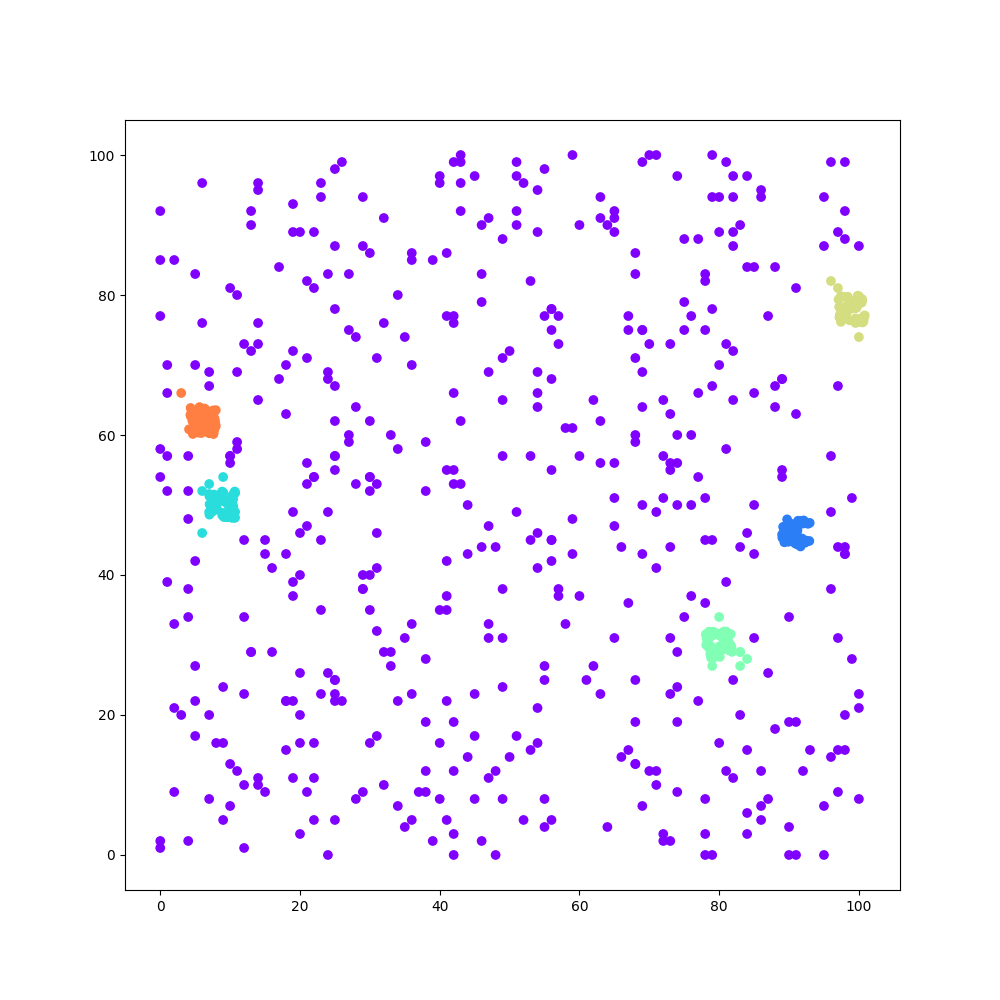
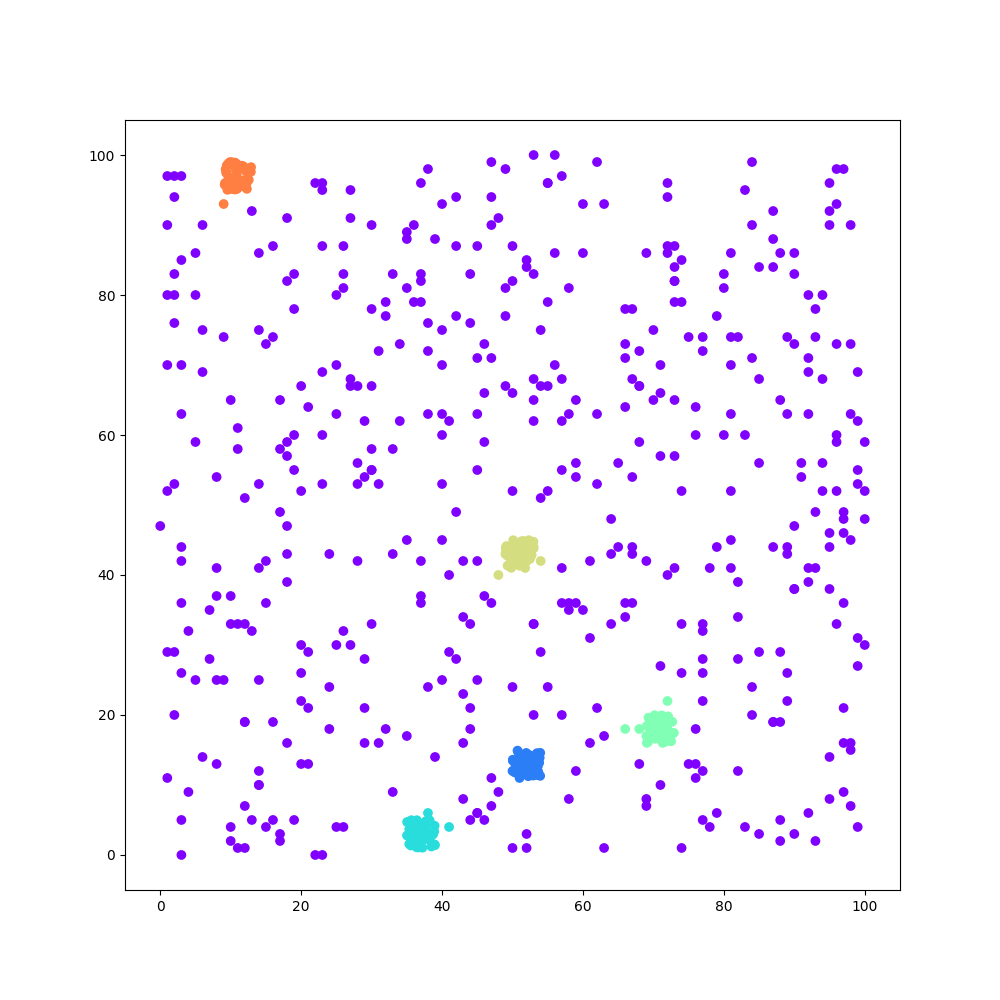
Final

diff --git a/main.py b/main.py
@@ -1,26 +1,47 @@
-from sklearn.cluster import DBSCAN
-import numpy as np
-import matplotlib.pyplot as plt
-import matplotlib.cm as cm
+"""
+	Author: Ash D
+	Date: Sept/2019
+	Description: This is a simple example demonstrating the
+				 unsupervised clustering algorithm DBSCAN.
+				 For more infomration see www.elmspace.com
+"""
+
 import random
-from collections import Counter
+import numpy as np
+import matplotlib.cm as cm
+import matplotlib.pyplot as plt
+from sklearn.cluster import DBSCAN
 
-def cluster_finder(points):
+
+def cluster_finder(points, eps, min_samples):
+	"""
+	This function will use sklearn DBSCAN and Matplotlib to
+	find clusters in points and plot them.
+	Input:
+		:points: List of x,y coordinates <list of lists>
+		:eps: Minimum distance used by DBSCAN for clusteting <float>
+		:min_samples: Minimum number points required per cluster (used by DBSCAN algo) <int>
+	"""
 	X = np.array(points)
-
-	clustering = DBSCAN(eps=3, min_samples=20).fit(X)
+	clustering = DBSCAN(eps=eps, min_samples=min_samples).fit(X)
 	labels = clustering.labels_
 	labels = [i+1 for i in labels]
-
-	cluster_labels = Counter(labels)
 	colors = cm.rainbow(np.linspace(0, 1, len(set(labels))+1))
-
-	fig = plt.figure(figsize=(10,10))
 	plt.scatter(X[:,0], X[:,1], c=colors[labels])
-	fig.savefig('temp.png', dpi=fig.dpi)
-
+	plt.show()
 
 def create_clusters(nc, npc, bs, delta):
+	"""
+	This function creates a list of [x,y] points based on:
+	Input:
+		:nc: Number of Clusters <int>
+		:npc: Number of points per cluster, <int>
+		:bs: Box size <int>
+		:delta: Size around the center of each cluster point to distribute the
+				cluster points <int>
+	Output:
+		:points: List of x,y coordinates. <list of lists>
+	"""
 	points = []
 	for i in range(nc):
 		x = random.randint(0,bs)
@@ -31,14 +52,12 @@ def create_clusters(nc, npc, bs, delta):
 			points.append([x+delta_x, y+delta_y])
 	for i in range(nc * 100):
 		points.append([random.randint(0,bs), random.randint(0,bs)])
-
 	return points
 
 if __name__ == "__main__":
-
-	nc = 5
-	npc = 50
-	bs = 100
-	delta = 2
+	nc = 8 # Number of clustersc
+	npc = 50 # Number of points per cluster
+	bs = 100 # Box size
+	delta = 2 # Distribution around cluster centers
 	points = create_clusters(nc, npc, bs, delta)
-	cluster_finder(points)
+	cluster_finder(points, 3, 20)
